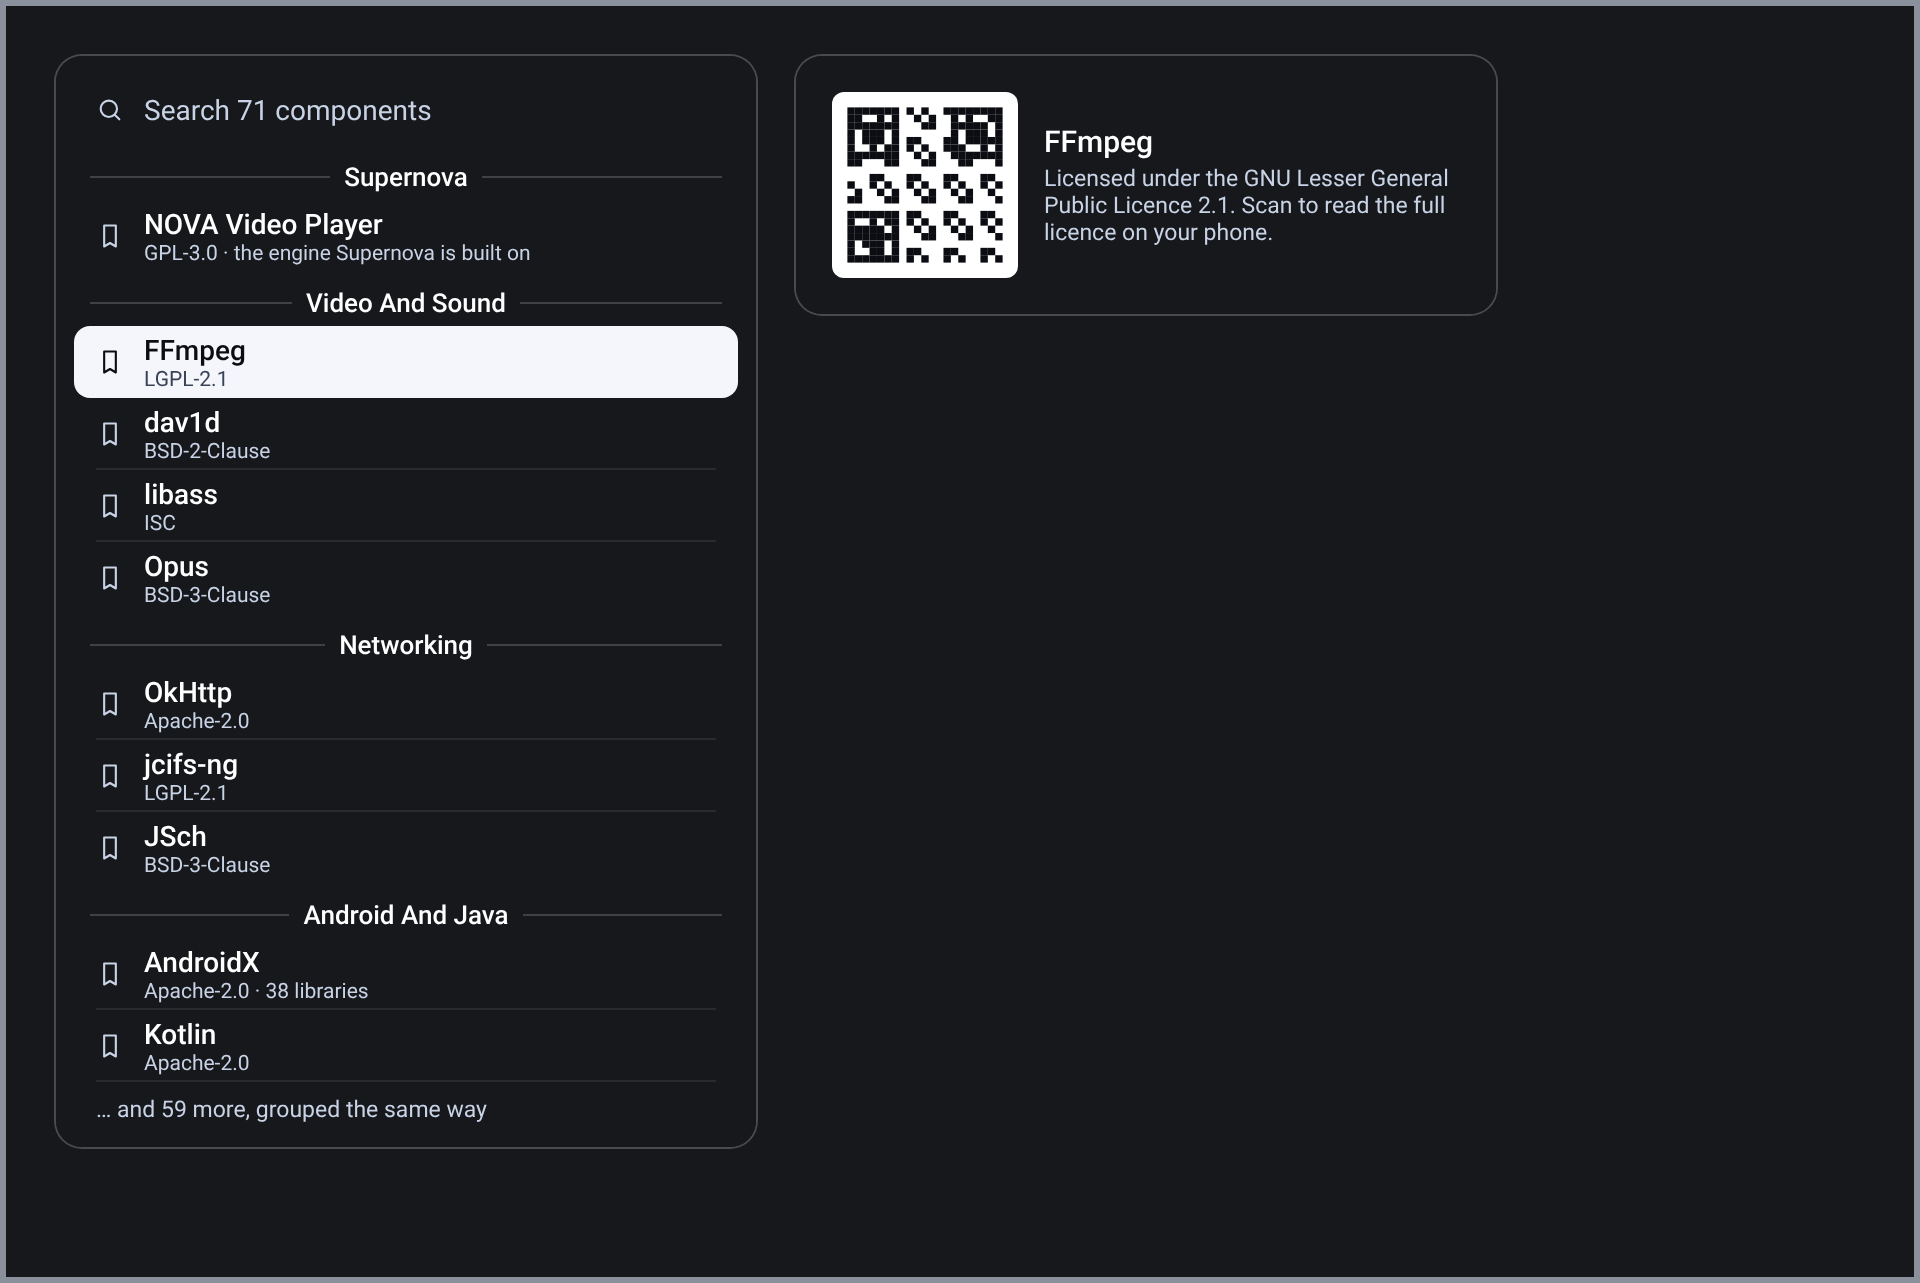
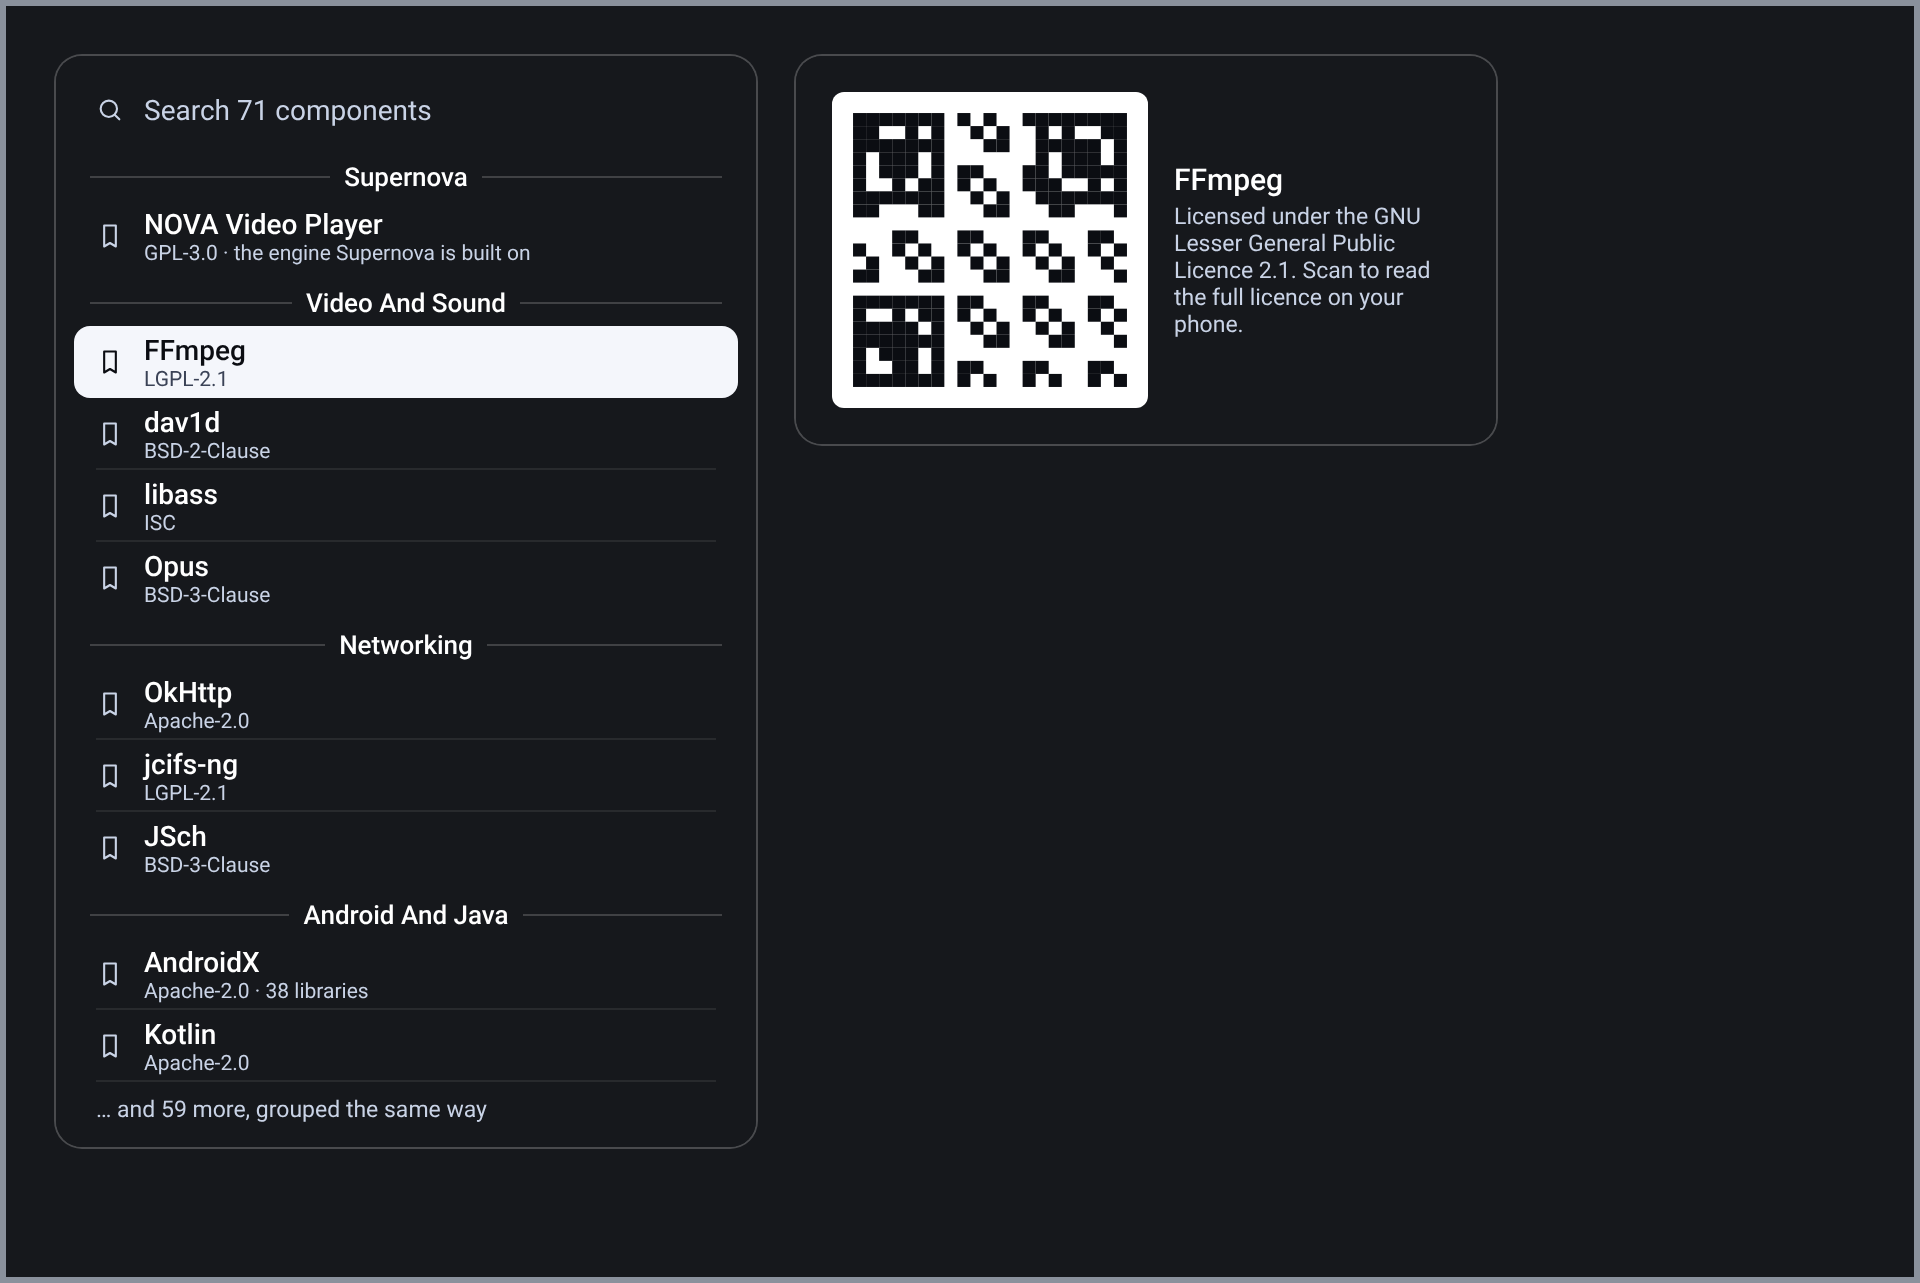
Licences pop-up: 300 px QR code; rule for QR codes on screen
Claude-Session: https://claude.ai/code/session_01FtDZqamY6pdaUKwc7fqgiA

Changed region(s): [[0.4062, 0.0624, 0.75, 0.3429]]

diff --git a/docs/design/proposals/settings-v2/render-b5.js b/docs/design/proposals/settings-v2/render-b5.js
@@ -453,7 +453,7 @@ const licList = `<div class="sl licl"><div class="lr search">${svg(I.search, 28)
   ${mg('Networking')}${L('OkHttp', 'Apache-2.0')}${L('jcifs-ng', 'LGPL-2.1')}${L('JSch', 'BSD-3-Clause')}
   ${mg('Android And Java')}${L('AndroidX', 'Apache-2.0 · 38 libraries')}${L('Kotlin', 'Apache-2.0')}
   <div class="more">… and 59 more, grouped the same way</div></div>`;
-const licPop2 = `<div class="sl"><div class="qrrow">${QR(170)}<div><b>FFmpeg</b><small>Licensed under the GNU Lesser General Public
+const licPop2 = `<div class="sl"><div class="qrrow">${QR(300)}<div><b>FFmpeg</b><small>Licensed under the GNU Lesser General Public
   Licence 2.1. Scan to read the full licence on your phone.</small></div></div></div>`;
 const licPic = `<div class="lists"><div class="col">${licList}</div><div class="col">${licPop2}</div></div>`;
 

diff --git a/docs/design/RULES.md b/docs/design/RULES.md
@@ -289,6 +289,13 @@ One brightness scale that follows your path, everywhere, top bar and tabs includ
 
 ---
 
+## 20. QR codes
+
+- A QR code on screen is about 300 px square at 1080p (about 18 cm on a 52" TV), so a phone can read it from the
+  sofa. 170 px only works from about a metre (owner, 14 Nov 2026).
+- Only one QR code on screen at a time, with its blank border around it. Never a QR code per row in a list: the
+  phone may read the neighbour, and small codes can't be read from the sofa. A list opens a pop-up with the one code.
+
 ## Open questions (to settle when the page comes up)
 - **Home row text:** inside the picture (current rule) or below it — with the Home redesign.
 - **Written breadcrumb** under the top bar on deeper pages ("Movies › Marshals") — an option alongside the path rule.

diff --git a/docs/0.157/SETTINGS_INVENTORY.md b/docs/0.157/SETTINGS_INVENTORY.md
@@ -243,3 +243,6 @@ item reaches the tabs; no "Find in notice" flash; no odd version lists.
 - **Settings design approved (owner, 14 Nov 2026).** Credits pop-ups approved; Open-source licences opens its QR pop-up
   straight over the About page. Seven tabs confirmed by the pictures. **All redesigns are now designed:** Search, Files,
   Details, Player and Playback Settings, the shared choice list, library pages, Home, Settings.
+- **Open-source licences list (owner, 14 Nov 2026).** The About row opens a floating, grouped list of the 71 components
+  (name and licence type on each row, search row because over 12); OK on one opens its pop-up with a 300 px QR code
+  to that licence's full text. One QR code on screen at a time (RULES §20). Mock-up `settings-v2/27`.
